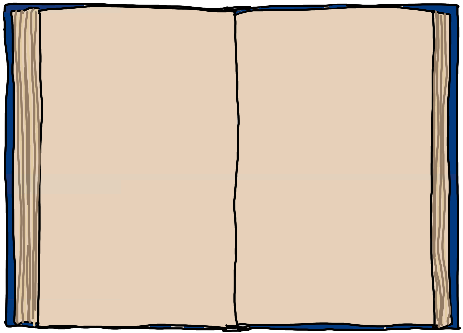
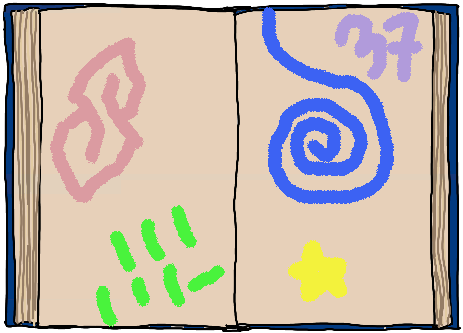
added scraps

diff --git a/main.py b/main.py
@@ -180,6 +180,7 @@ while running:
                         state_blue_book = "eaten"
                         chaos_bar.hit(1)
                         chomp_sound.play()
+                        inventory.append("blue_scrap")
             elif state_blue_book == "eaten":
                 if event.type == pygame.MOUSEBUTTONDOWN:
                     if not pygame.Rect(100, 50, 600, 400).collidepoint(pygame.mouse.get_pos()):
@@ -191,6 +192,7 @@ while running:
                         state_sage_book = "torn"
                         chaos_bar.hit(2)
                         tear_sound.play()
+                        inventory.append("sage_scrap")
             elif state_sage_book == "torn":
                 if event.type == pygame.MOUSEBUTTONDOWN:
                     if not pygame.Rect(100, 50, 600, 400).collidepoint(pygame.mouse.get_pos()):

diff --git a/scripts/render_inventory.py b/scripts/render_inventory.py
@@ -48,6 +48,18 @@ def createSprite(name, x):
                                      "img/inventory/lighter.png",
                                      x)
             return sprite
+        case "blue_scrap":
+            sprite = InventorySprite("blue scrap",
+                                     "37... what could it mean? :O",
+                                     "img/inventory/blue_scrap.png",
+                                     x)
+            return sprite
+        case "sage_scrap":
+            sprite = InventorySprite("sage scrap",
+                                     "110... sounds familiar...? :>",
+                                     "img/inventory/sage_scrap.png",
+                                     x)
+            return sprite
 
 
 # checks if mouse is hovering over sprite, if so, show description and name
